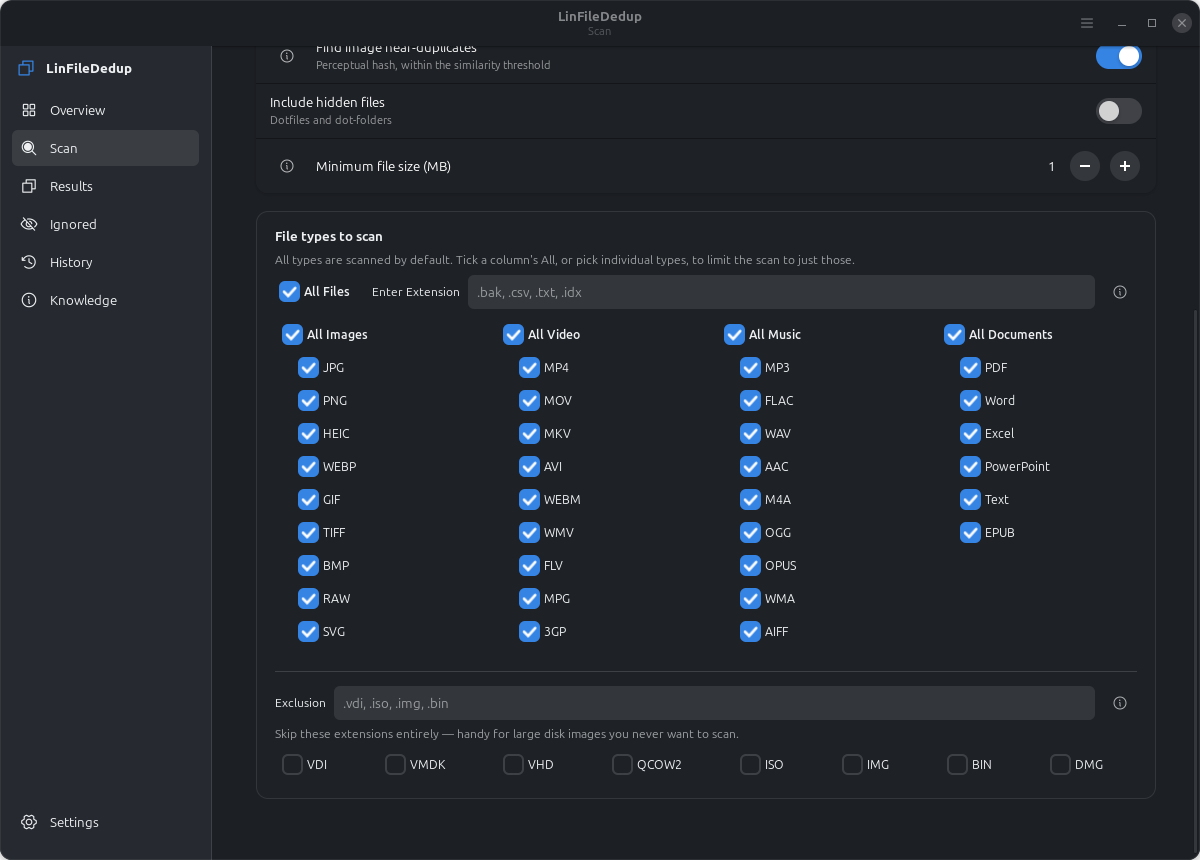
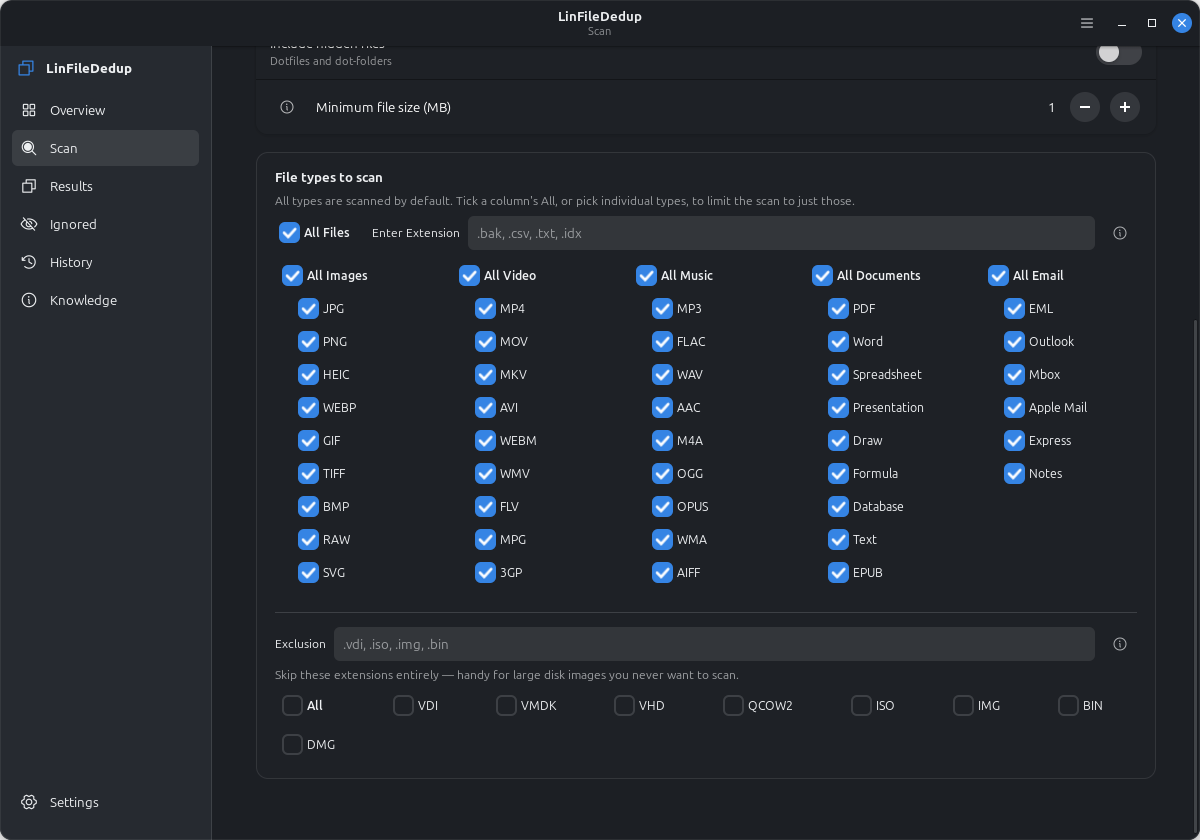
Scan: lay file-type columns five across; refresh file-type/exclusion screenshots
- scan page: category FlowBox max-per-line 4→5 so the new Email column shares
  the row with Images/Video/Music/Documents (still wraps on narrow windows).
- screenshots: re-captured scan-exclude.png (clean default state: expanded
  Documents list, Email column, exclusion "All" box) and settings-scope.png
  (renamed "Trash and recycle bins" preset).
- README: surface the file-type/exclusion screenshot (previously unreferenced)
  with a caption covering Documents/Email and the exclusion All toggle.

diff --git a/src/linfilededuplication/ui/pages/scan.py b/src/linfilededuplication/ui/pages/scan.py
@@ -146,7 +146,7 @@ class ScanPage(BasePage):
         card.append(toprow)
 
         flow = Gtk.FlowBox(selection_mode=Gtk.SelectionMode.NONE, homogeneous=True,
-                           min_children_per_line=1, max_children_per_line=4,
+                           min_children_per_line=1, max_children_per_line=5,
                            column_spacing=20, row_spacing=14)
         for cat in filetypes.CATEGORIES:
             flow.append(self._category_column(cat, saved_set))

diff --git a/changelog.md b/changelog.md
@@ -65,3 +65,4 @@ Append-only. Format: `| ISO-8601 datetime | description |`.
 | 2026-10-03 | File types expanded (`core/filetypes.py`): **Documents** now covers the full LibreOffice/OpenDocument family (Writer/Calc/Impress/Draw/Math/Base — odt/ott/fodt/odm/sxw, ods/fods/sxc, odp/fodp/sxi, odg/sxd, odf/mml/sxm, odb) plus EPUB alongside MS Office; a new **Email** category (EML, Outlook .msg/.pst/.ost, Mbox, Apple Mail .emlx, Outlook Express .dbx, Lotus Notes .nsf). Five include-columns now. |
 | 2026-10-03 | Scan page: an **"All"** tri-state box beside the large-type exclusion checkboxes toggles every large type (VDI/VMDK/VHD/QCOW2/ISO/IMG/BIN/DMG) on or off at once; it reflects mixed/checked/empty state as the individual boxes change and when an exclusion is resumed from the Ignored page. |
 | 2026-10-03 | Test: `test_duplicate_file_types_detected_across_sources` — identical content on two different sources under *different* file names is detected as one cross-source group with the primary-source copy kept and one copy reclaimable (proves content-based, name-independent dedup across drives). 78 tests passing. |
+| 2026-10-03 | File-type columns now lay out five across (Images/Video/Music/Documents/Email) — the category FlowBox cap raised 4→5 so the new Email column sits in the same row; re-captured docs/screenshots/scan-exclude.png (clean default state showing the expanded Documents list + Email column + the exclusion "All" box) and settings-scope.png (renamed "Trash and recycle bins" preset). README gallery now shows the file-type/exclusion screenshot (was an orphan) with a short caption. |

diff --git a/README.md b/README.md
@@ -65,9 +65,13 @@ results appear.
 
 ### Scan scope & ignored items
 
-| Scan — tiers, file-type filter, custom extensions | Ignored — files & folders you skip |
+| File-type filter & exclusions | Ignored — files & folders you skip |
 | --- | --- |
-| ![Scan](docs/screenshots/scan.png) | ![Ignored](docs/screenshots/ignored.png) |
+| ![File types and exclusions](docs/screenshots/scan-exclude.png) | ![Ignored](docs/screenshots/ignored.png) |
+
+The **file-type filter** spans Images / Video / Music / **Documents** (PDF, EPUB and the full
+LibreOffice / OpenDocument family) / **Email** (EML, Outlook, Mbox, Apple Mail, …); the
+**Exclusion** row skips large types in one tap, with an **All** box to toggle them together.
 
 ### History — see what you reclaimed
 
